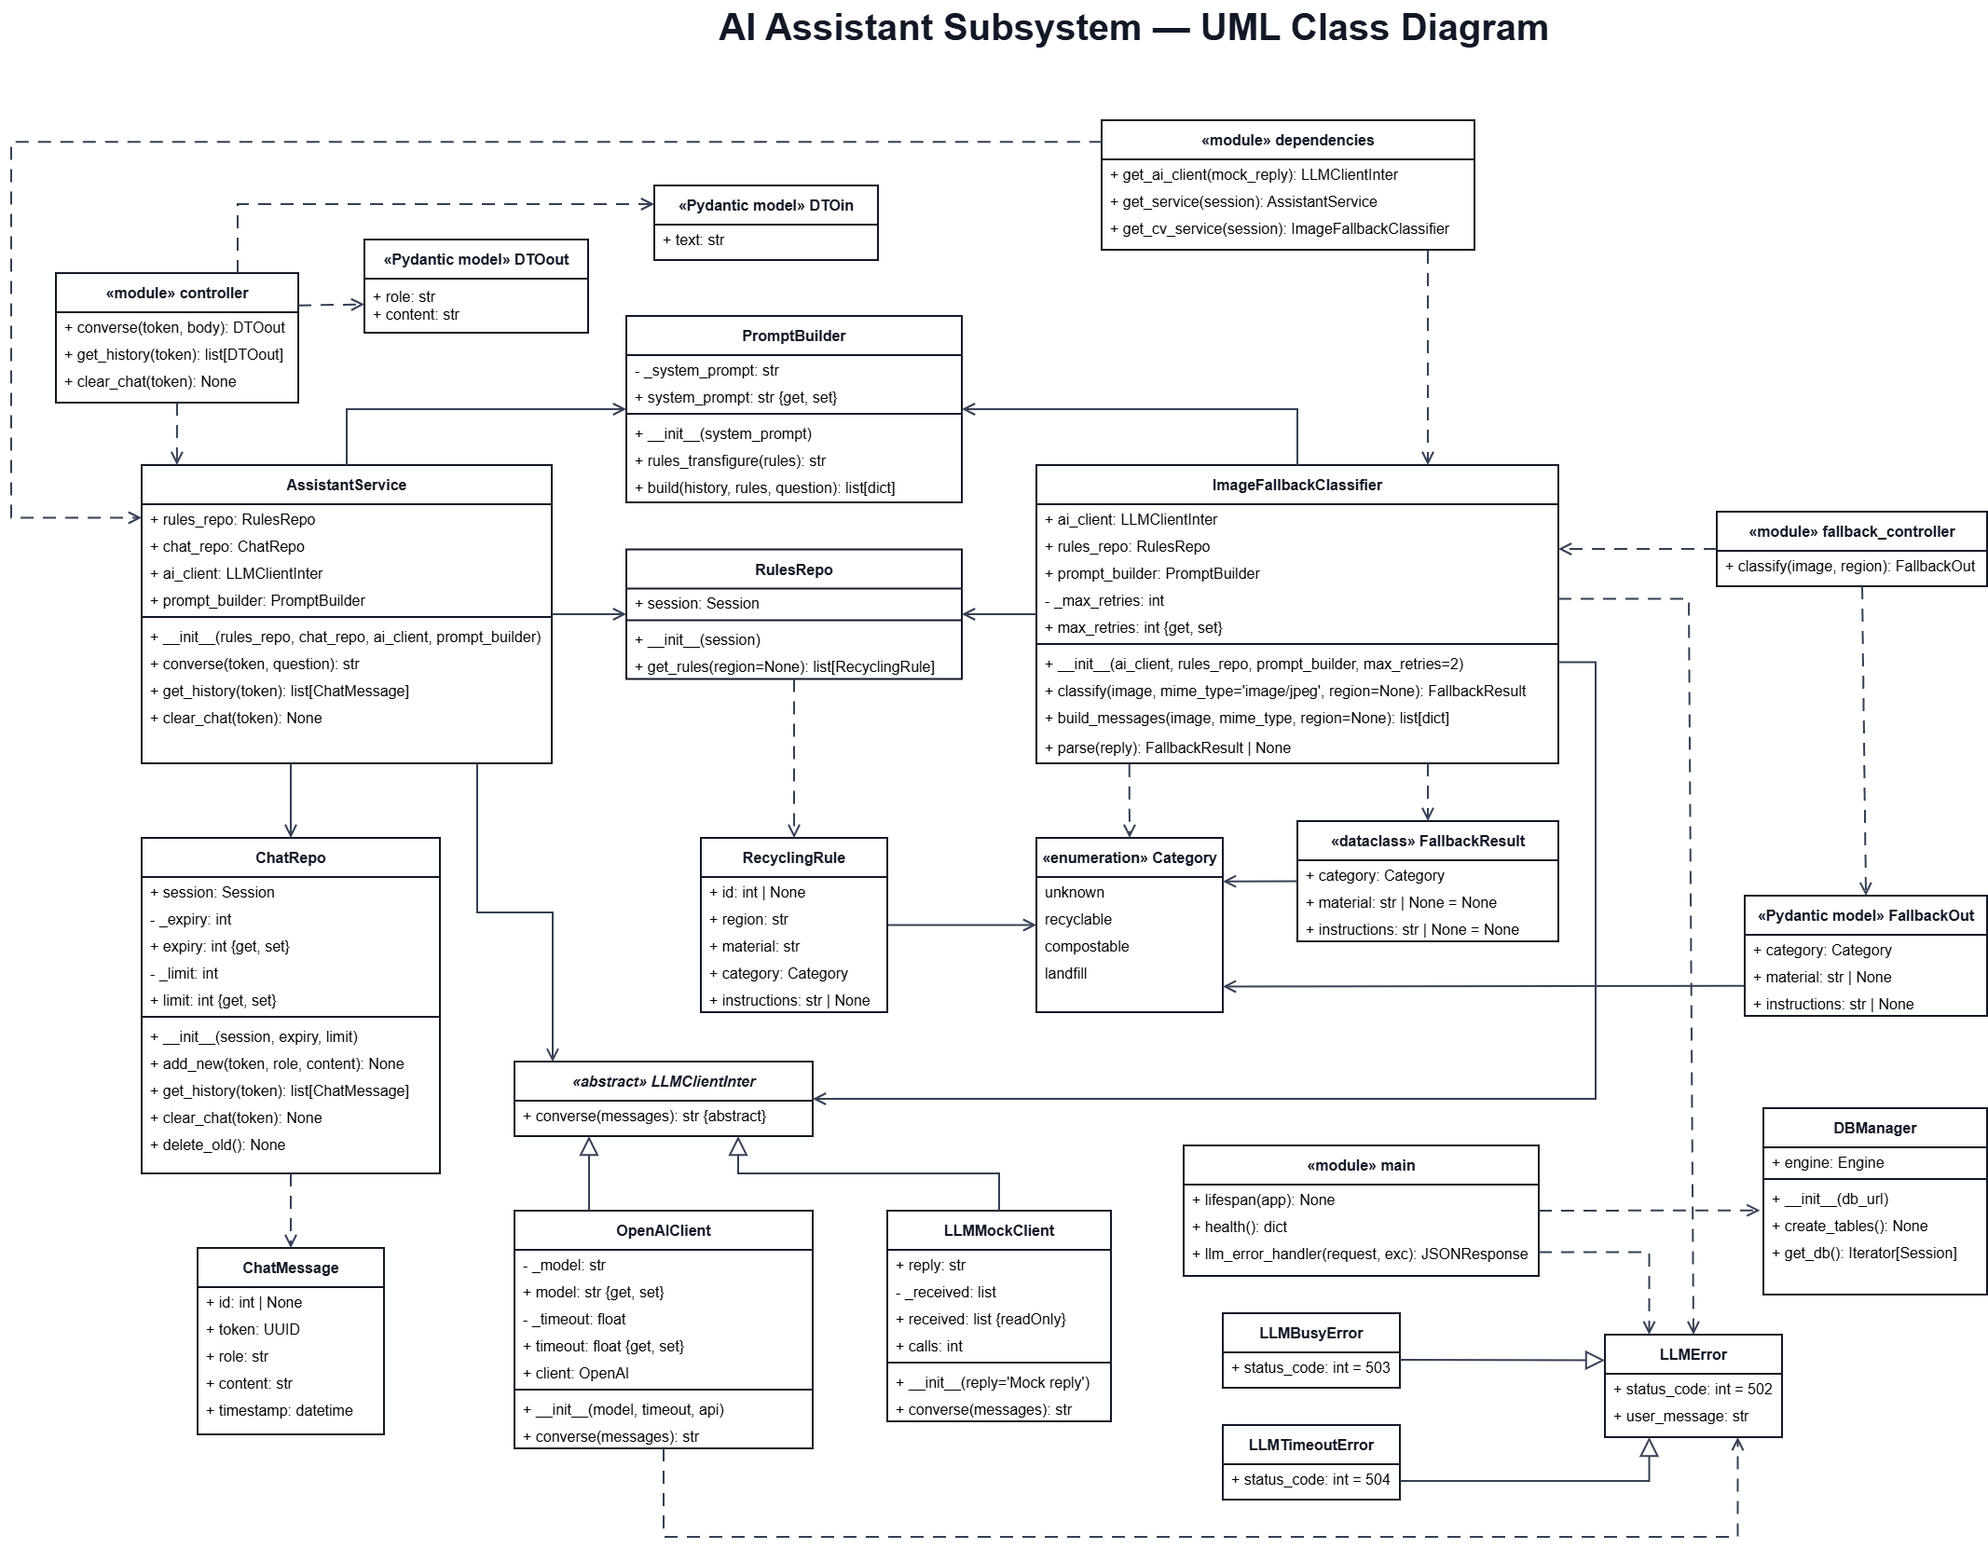
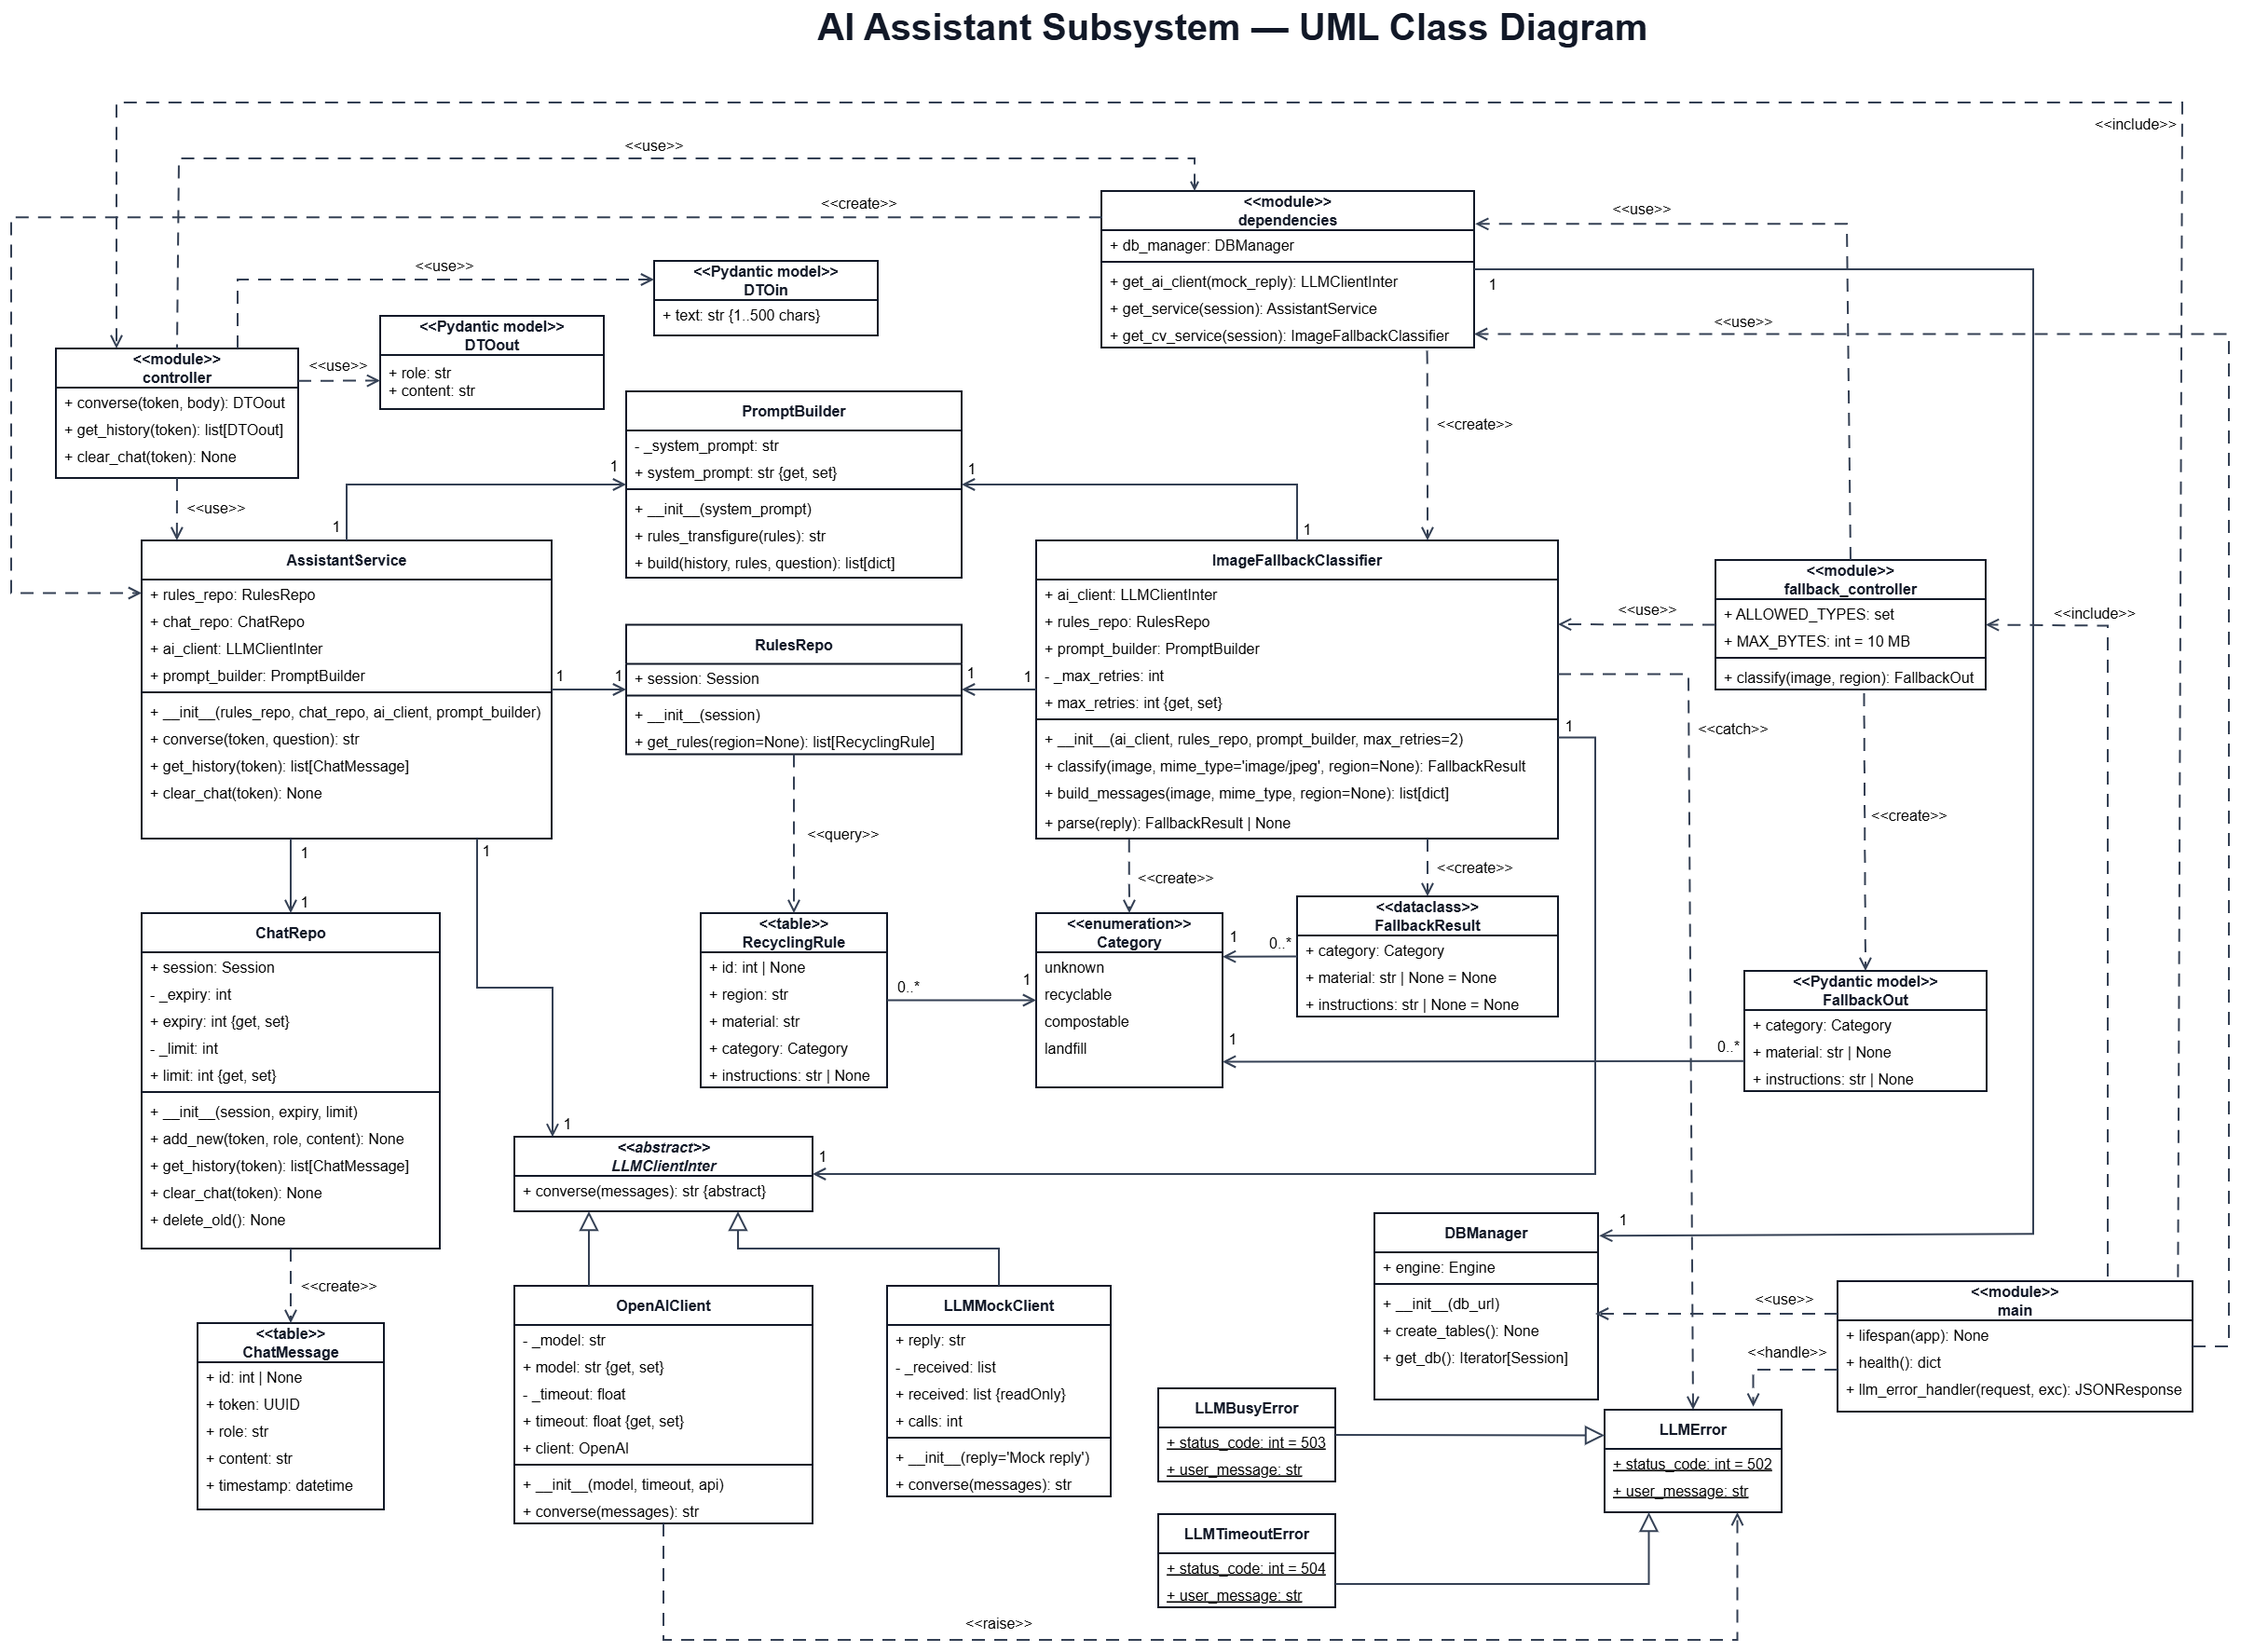
Finalizing Readme. Updated the diagrams

diff --git a/README.md b/README.md
@@ -131,7 +131,7 @@ The dashboard collects, processes and presents statistics about classified waste
 * **Live updates.** The page keeps a WebSocket connection (`/analytics/ws`) and reloads the statistics as soon as a new record arrives for the selected region. A status indicator shows whether the connection is active. If the connection drops, it reconnects automatically, and the data is refreshed when the user returns to the tab or the device goes back online.
 
 **Class diagram:**
-![Class diagram](dashboard_subsystem/docs/uml_class_diagram.png)
+![Class diagram](docs/WasteAnalytics_UML.png)
 
 ---
 
